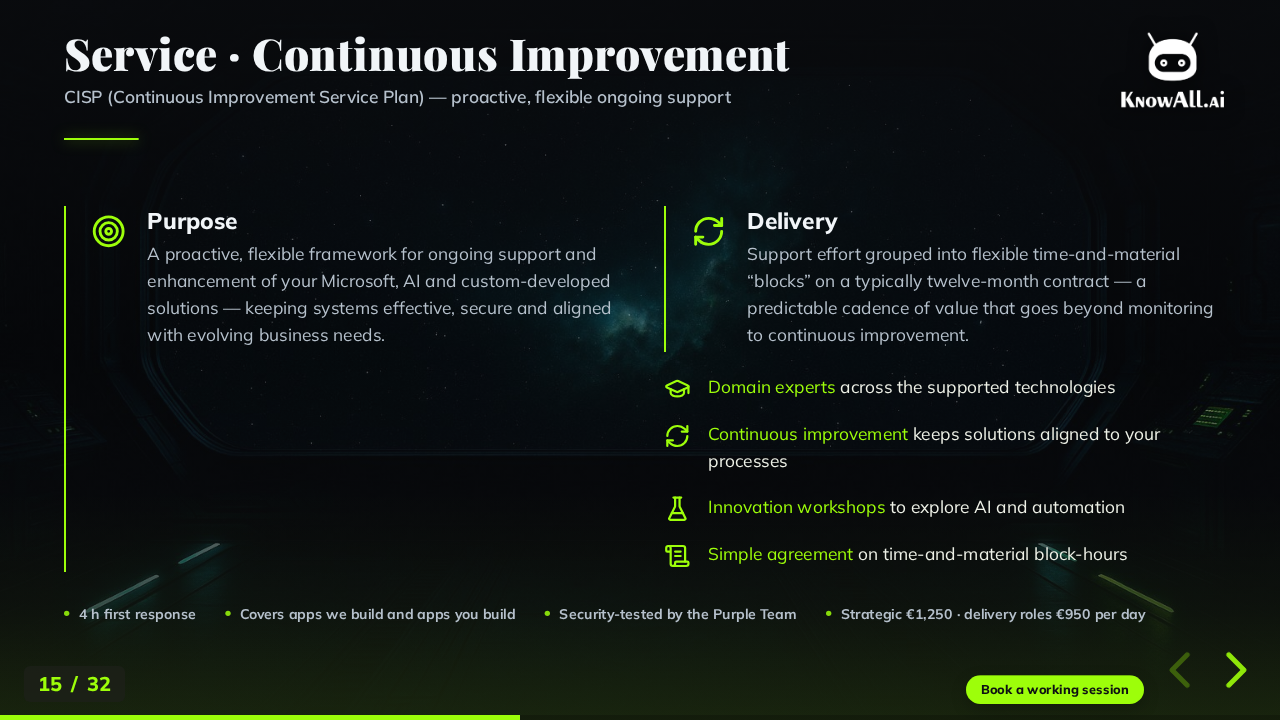
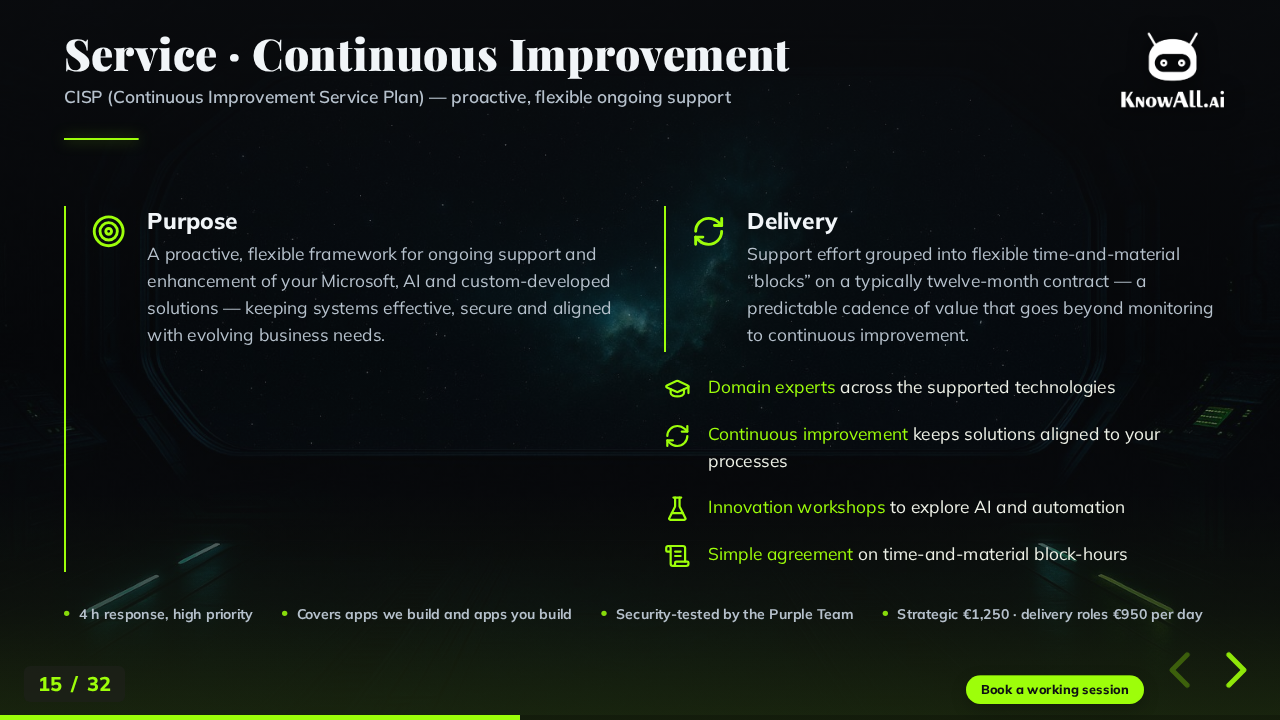
fix(presentations): qualify the 4 h response pill as high priority

Changed region(s): [[0.0938, 0.825, 0.9375, 0.8861]]

diff --git a/presentations-src/company-overview.html b/presentations-src/company-overview.html
@@ -1144,7 +1144,7 @@
               </div>
             </div>
             <div class="pill-row" role="list" aria-label="Response targets and day rates">
-              <span class="pill" role="listitem">4&nbsp;h first response</span>
+              <span class="pill" role="listitem">4&nbsp;h response, high priority</span>
               <span class="pill" role="listitem">Covers apps we build and apps you build</span>
               <span class="pill" role="listitem">Security-tested by the Purple Team</span>
               <span class="pill" role="listitem">Strategic &euro;1,250 &middot; delivery roles &euro;950 per day</span>

diff --git a/public/presentations/company-overview.html b/public/presentations/company-overview.html
@@ -1168,7 +1168,7 @@
               </div>
             </div>
             <div class="pill-row" role="list" aria-label="Response targets and day rates">
-              <span class="pill" role="listitem">4&nbsp;h first response</span>
+              <span class="pill" role="listitem">4&nbsp;h response, high priority</span>
               <span class="pill" role="listitem">Covers apps we build and apps you build</span>
               <span class="pill" role="listitem">Security-tested by the Purple Team</span>
               <span class="pill" role="listitem">Strategic &euro;1,250 &middot; delivery roles &euro;950 per day</span>
